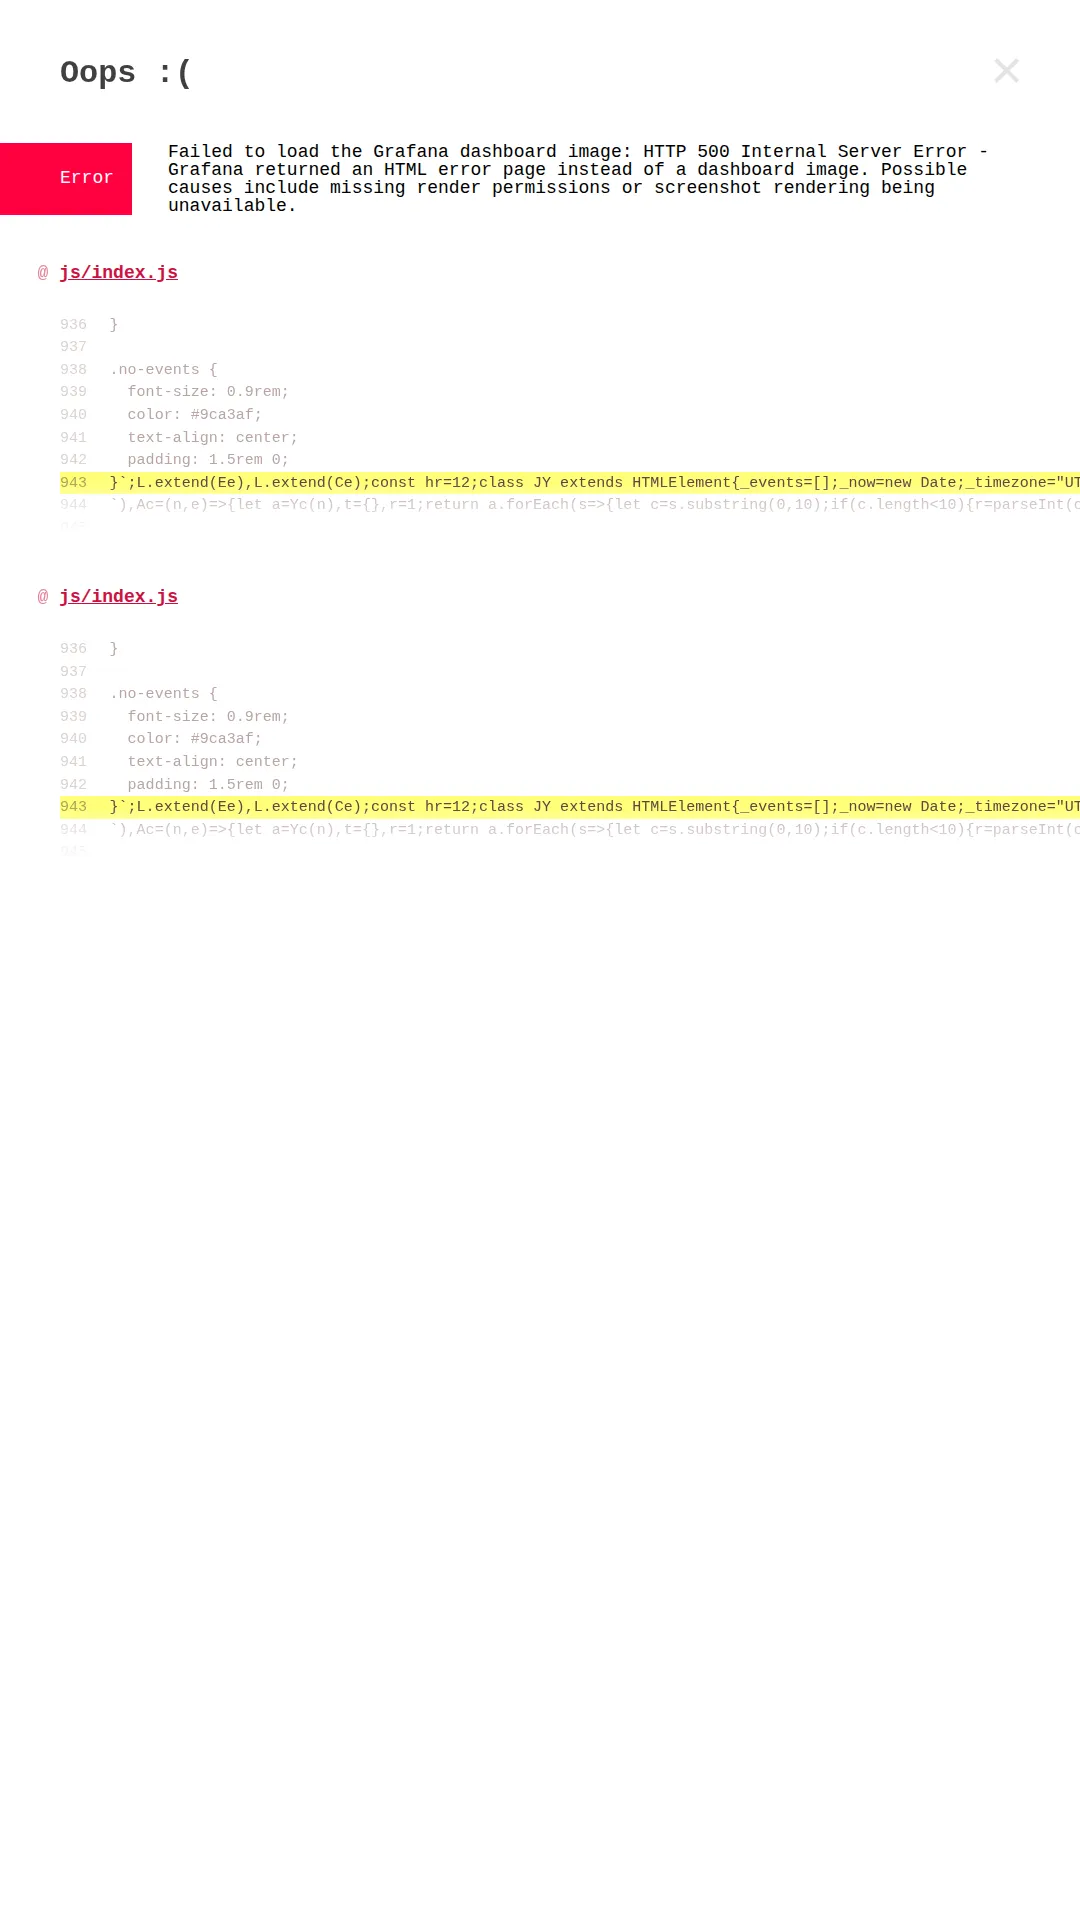
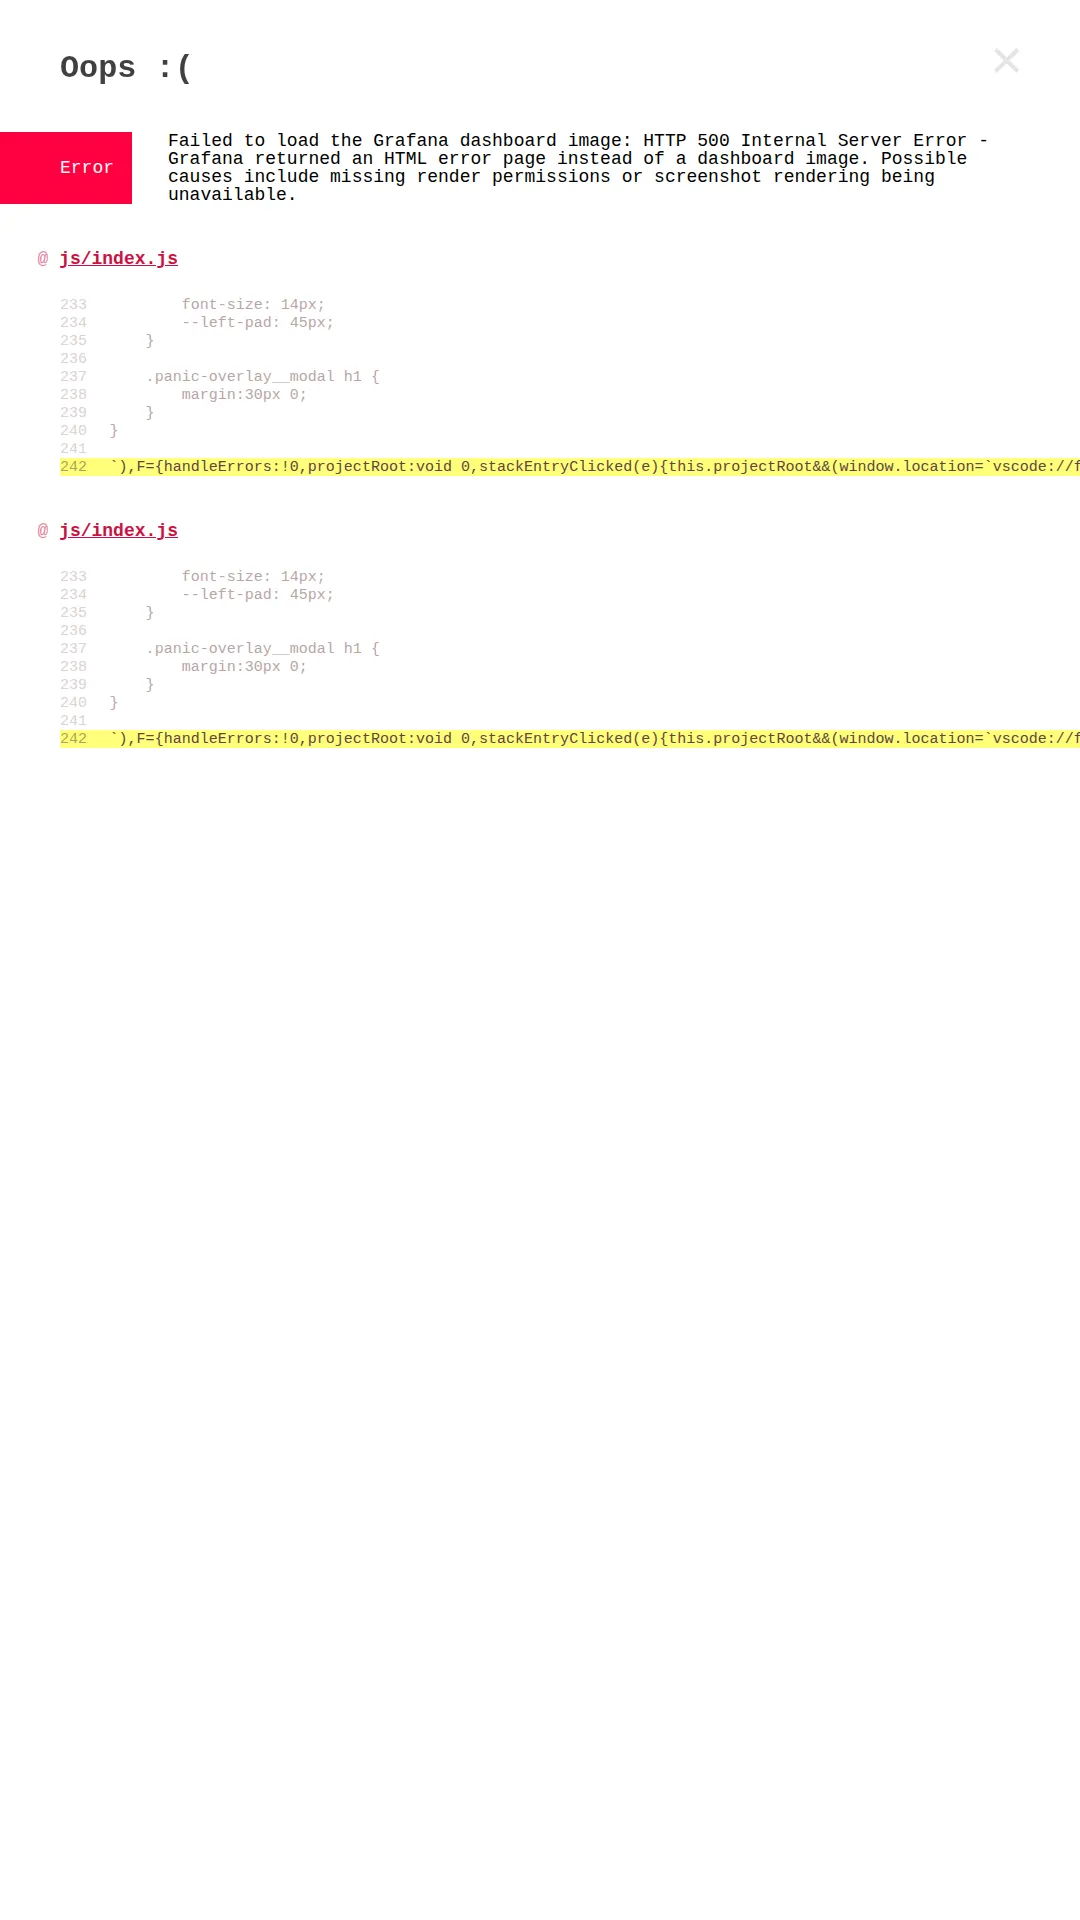
feat: adopt Tailwind CSS utility classes for styling
Rework index.html to use Tailwind utility classes instead of custom CSS
classes, keeping visual appearance and behavior unchanged. Slim the CSS
entry point down to just the design-system import. Bump
@screenly/edge-apps to ^1.3.0 for upcoming Tailwind CSS support.
Regenerate screenshots to reflect the change.

Changed region(s): [[0.0, 0.0312, 1.0, 0.4375], [0.275, 0.1562, 0.3056, 0.1875]]

diff --git a/src/css/style.css b/src/css/style.css
@@ -1,40 +1,5 @@
-@import 'tailwindcss';
+@layer theme, base, utilities;
 
-/* Reset and base styles */
-* {
-  margin: 0;
-  padding: 0;
-  box-sizing: border-box;
-}
-
-html,
-body {
-  height: 100vh;
-  width: 100vw;
-}
-
-body {
-  font-family:
-    -apple-system, BlinkMacSystemFont, 'Segoe UI', Roboto, 'Helvetica Neue',
-    Arial, sans-serif;
-  overflow: hidden;
-  background-color: var(--theme-color-background, #ffffff);
-}
-
-.container {
-  width: 100%;
-  height: 100%;
-}
-
-#content {
-  width: 100%;
-  height: 100vh;
-  display: flex;
-  align-items: center;
-  justify-content: center;
-}
-
-#content img {
-  max-width: 100%;
-  max-height: 100%;
-}
+@import 'tailwindcss/theme.css' layer(theme);
+@import '@screenly/edge-apps/styles' layer(base);
+@import 'tailwindcss/utilities.css' layer(utilities);

diff --git a/index.html b/index.html
@@ -6,10 +6,15 @@
     <title>Grafana - Screenly Edge App</title>
     <script src="screenly.js?version=1"></script>
   </head>
-  <body>
-    <div class="container max-w-full">
-      <div id="content">
-        <img />
+  <body
+    class="w-screen h-screen overflow-hidden bg-[var(--theme-color-background,#ffffff)] font-[-apple-system,BlinkMacSystemFont,'Segoe_UI',Roboto,'Helvetica_Neue',Arial,sans-serif]"
+  >
+    <div class="w-full h-full">
+      <div
+        id="content"
+        class="w-full h-screen flex items-center justify-center"
+      >
+        <img class="max-w-full max-h-full" />
       </div>
     </div>
     <script type="module" src="/src/main.ts"></script>
